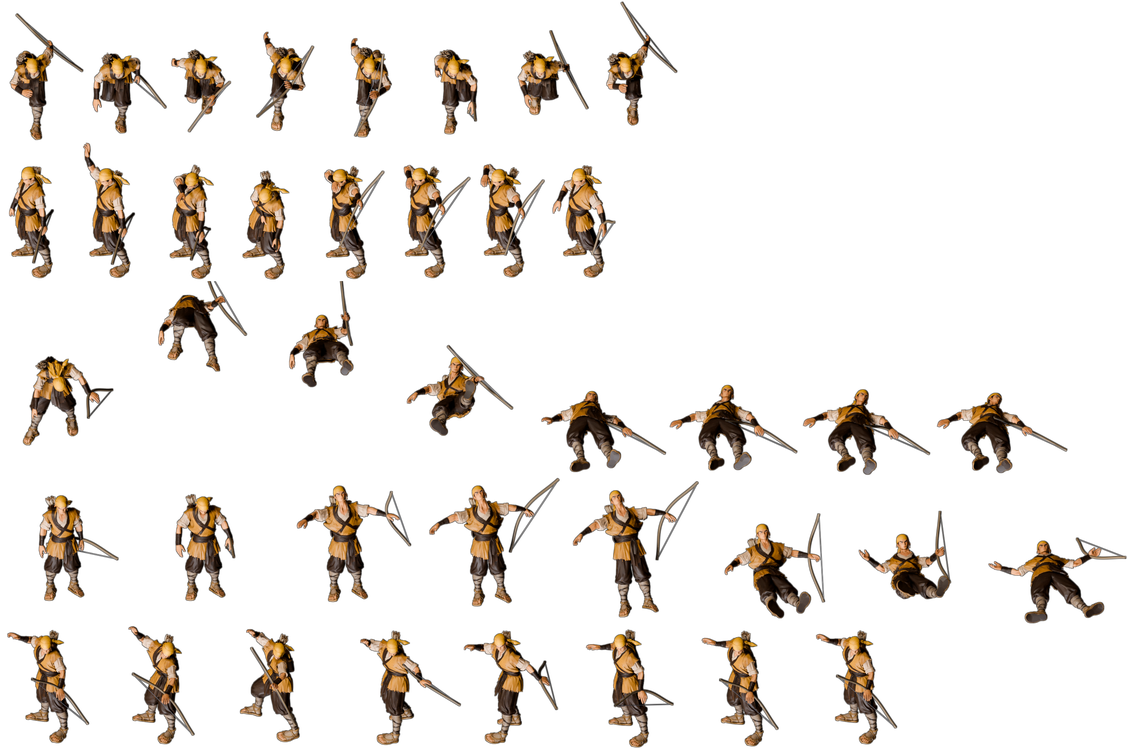
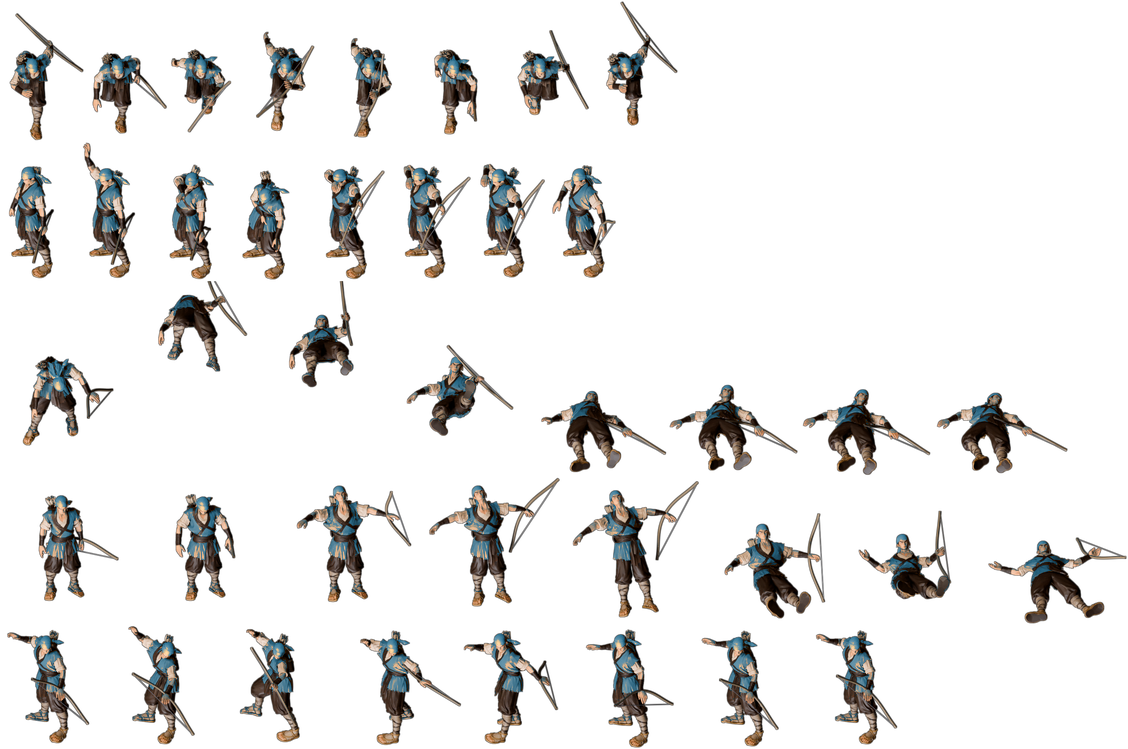
弓手只把衣服换成深青，脸手保持原色

diff --git a/原型/守关.html b/原型/守关.html
@@ -183,7 +183,7 @@ function bakeGeneral(id) {
 // 小兵：正面朝镜头跑过来，f 是跑动的相位
 const FOES = {
   bing:  { name: '黄巾兵', hp: 40, spd: 33, leak: 3, exp: 1, r: 9, box: [34, 52], s: 1, wpn: 'spear', sheet: 'huangjin', sh: 40 },
-  gong:  { name: '黄巾弓手', hp: 32, spd: 36, leak: 2, exp: 2, r: 9, box: [34, 52], s: 1, wpn: 'bow', stopY: 300, shoot: { every: 2.4, dmg: 3 }, sheet: 'gong', sh: 38, tint: 'gong', tintOwn: true },   // 10-28 用户：「第三关提示打弓箭手，但我好像没看到」——混在黄巾堆里分不出，头巾衣服调成青蓝
+  gong:  { name: '黄巾弓手', hp: 32, spd: 36, leak: 2, exp: 2, r: 9, box: [34, 52], s: 1, wpn: 'bow', stopY: 300, shoot: { every: 2.4, dmg: 3 }, sheet: 'gong', sh: 38, tint: 'gong' },   /* 11-02 用户：弓手整张转蓝（脸手也蓝）→「只染衣服，脸手不变」：衣服、头巾离线换成深青（工具/recolor_cloth.py，原色存 美术/弓手原色/），自己的图集不再整张调色；tint 只在借别人图集时用 */   // 10-28 用户：「第三关提示打弓箭手，但我好像没看到」——混在黄巾堆里分不出，头巾衣服调成青蓝
   lishi: { name: '黄巾力士', hp: 190, spd: 20, leak: 10, exp: 4, r: 13, box: [48, 66], s: 1.32, wpn: 'club', bulk: 12, sheet: 'lishi', sh: 58 },
   cyz:   { name: '程远志', hp: 1500, spd: 12, dps: 18, exp: 20, r: 22, box: [76, 96], s: 1.9, wpn: 'blade', bulk: 11, boss: true, sheet: 'cyz', sh: 70, title: '黄巾大将' },
   // 第一章新兵种（10-24，见 ../设计/第一章设定.md 3.1）

diff --git a/工具/recolor_cloth.py b/工具/recolor_cloth.py
@@ -1,0 +1,25 @@
+"""只给衣服换色（11-02 用户：弓手「只染衣服，脸手不变」）：原来游戏里整张图 hue-rotate，脸、手、弓都变蓝。
+按色相挑出饱和的黄/土黄（衣服、头巾），换成目标色相、亮度略压；肤色（饱和度低）、棕裤、弓不动。边缘按饱和度软过渡。
+有同名 .json（图集）时每帧最下面 22% 不换，免得草鞋也变色。
+用法：<media-venv>/bin/python 三国志/工具/recolor_cloth.py <图> <输出> [目标色相°=195] [亮度×=.8]
+"""
+import sys
+import numpy as np
+from PIL import Image
+src, out = sys.argv[1], sys.argv[2]; H2 = float(sys.argv[3]) / 360 if len(sys.argv) > 3 else 195 / 360; VK = float(sys.argv[4]) if len(sys.argv) > 4 else .8
+im = Image.open(src).convert('RGBA'); a = np.asarray(im).astype(np.float32) / 255; rgb = a[..., :3]
+hsv = np.asarray(Image.fromarray((rgb * 255).astype(np.uint8)).convert('HSV')).astype(np.float32) / 255
+h, s, v = hsv[..., 0] * 360, hsv[..., 1], hsv[..., 2]
+hm = np.clip(1 - np.maximum(0, np.maximum(28 - h, h - 62)) / 6, 0, 1)          # 色相 28–62°（黄、土黄马甲），两头 6° 渐出
+sm = np.clip((s - .40) / .15, 0, 1); vm = np.clip((v - .18) / .1, 0, 1)        # 够饱和才算衣服（肤色饱和度低）；太暗的不动
+m = hm * sm * vm
+import json, os
+js = os.path.splitext(src)[0] + '.json'                                          # 草鞋和马甲同色：每帧最下面 22% 不换（脚）
+if os.path.exists(js):
+    for A in json.load(open(js))['anims'].values():
+        for x, y, w, hh in A['rects']: m[y + int(hh * .78):y + hh, x:x + w] = 0
+nh = np.full_like(h, H2 * 255); nv = np.clip(v * VK, 0, 1) * 255; ns = np.clip(s * .7, 0, 1) * 255
+new = np.asarray(Image.fromarray(np.dstack([nh, ns, nv]).astype(np.uint8), 'HSV').convert('RGB')).astype(np.float32) / 255
+res = rgb * (1 - m[..., None]) + new * m[..., None]
+Image.fromarray((np.dstack([res, a[..., 3:]]) * 255).round().astype(np.uint8), 'RGBA').save(out, optimize=True)
+print(out, '换色像素占比', round(float((m > .5).sum() / max(1, (a[..., 3] > .1).sum())), 3))

diff --git a/设计/方案初稿.md b/设计/方案初稿.md
@@ -811,3 +811,4 @@
 - 11-02 用户截图结算页：军师认错下面那句兄弟的话（「关羽：……（默默把刀擦了三遍）」）和「达成功绩：首通 · 招募乡勇」叠在一起。三张武将卡加军师认错已经顶到按钮，功绩那行被挤上去。两样都有时武将卡 50 → 44 高、间隔 4 → 2；军师认错占的高度按卷轴实际行数和下面那句话算（原来固定 70）。截图核对过三张卡 + 认错 + 功绩不叠。手机没看。
 - 11-02 顶栏（用户：「第几波就在左上或者右上角想办法即可？另外这个敌军和目标太长了，缩短一半。目标后面好像还有军功2个字」）：敌军、军功两条 158 → 79 宽，连退军、目标两钮一起靠右；第二条其实是军功条，「军功」两字原来写在条左边、被目标钮盖住，挪到条上居中。「第 n/m 波」从关名下面挪到战场左上角一块小牌（和右边状态小牌同一排，有敌将血条时在血条下面），提示卷轴排在它下面；关名下面一律写「第一章 群雄逐鹿」。截图看过第二关、第十关。手机没看。
 - 11-02 用户：「目标背后好像有点东西？」——uiPanel 上半那层高光用的圆角和面板一样大，「目标」钮高 20、圆角 10，高光只有 8 高，圆弧溢出钮外成了一块灰影。高光圆角改成不超过它自己一半高；所有用 uiPanel 的圆胶囊钮都一起好了。截图核对过。
+- 11-02 弓手颜色（用户截图一片蓝人：「这个颜色？」→「只染衣服，脸手不变」）：原来弓手为了和黄巾兵分开，游戏里整张图 hue-rotate(170°)，脸、手、弓、草鞋全变蓝。改成离线只换衣服：新工具 工具/recolor_cloth.py 按色相（28–62° 的黄、土黄马甲和头巾）、饱和度挑出衣服，换成深青（色相 200°、亮度 ×.72）；肤色饱和度低不动，每帧最下面 22% 不换（草鞋和马甲同色）。gong.png、gong_back.png 都换了，原色存 美术/弓手原色/。弓手自己的图集不再整张调色（去掉 tintOwn）。截图看过第三关：深青衣服、脸手原色，混在黄巾兵里一眼分得出。手机没看。
